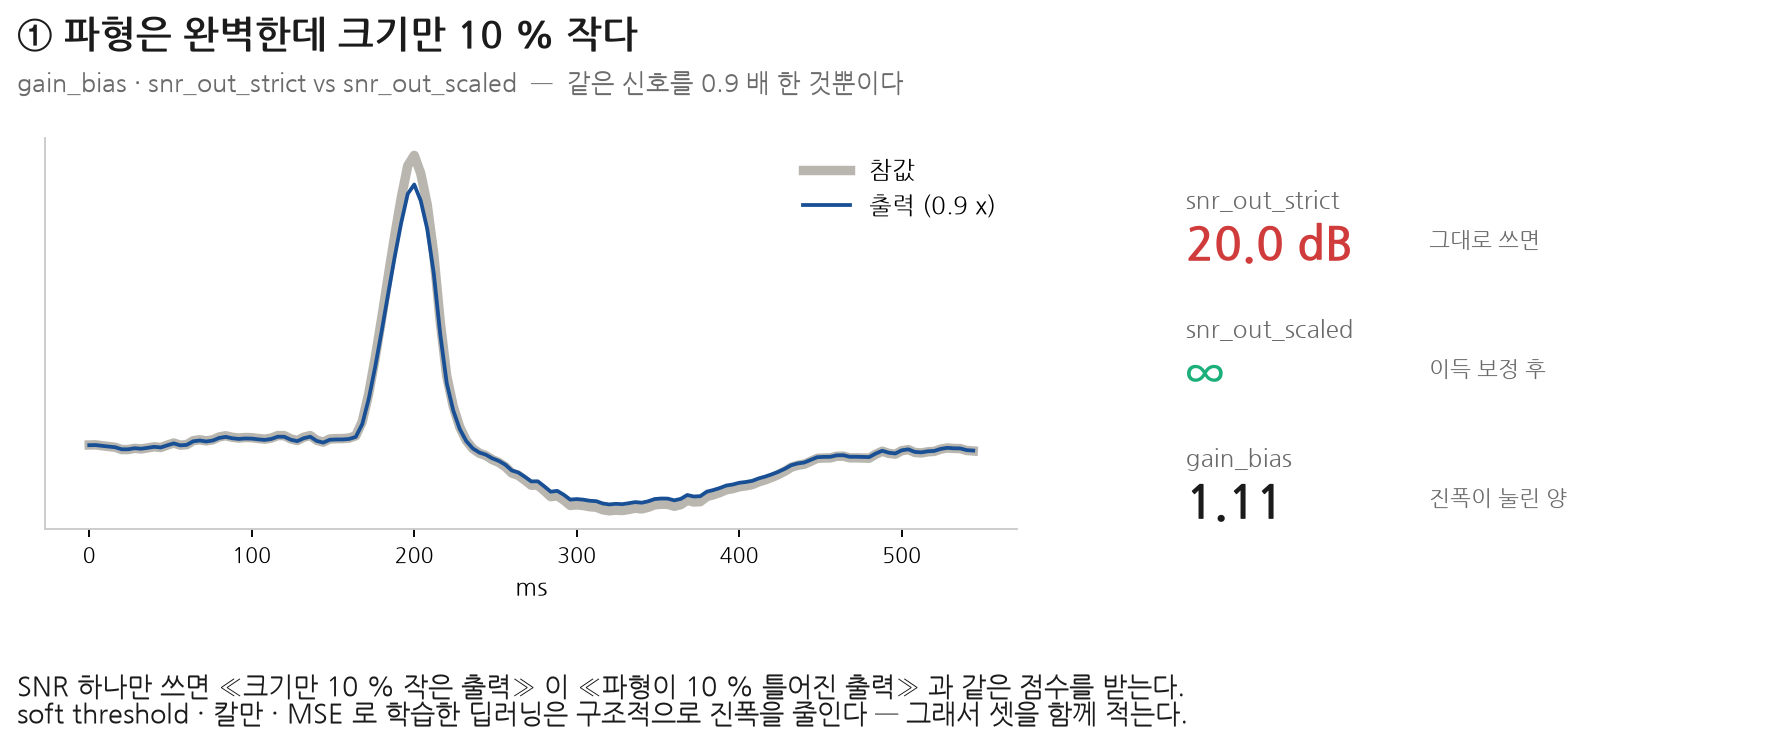
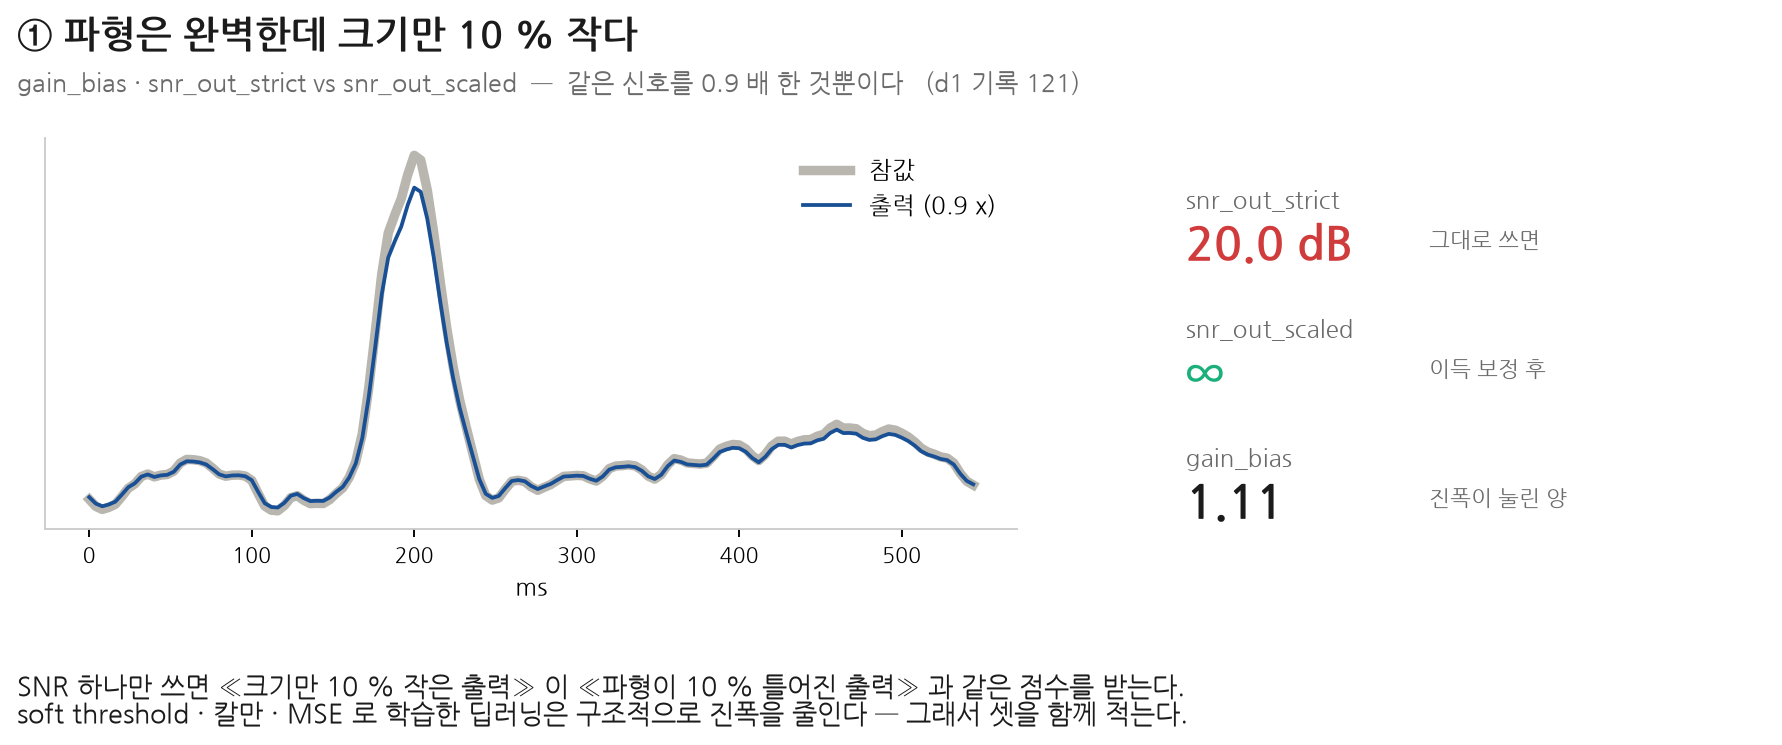
시연 카드 여섯 장을 다섯 장으로 — 미뤄 뒀던 셋을 반영했다
pick_teaching_beat(): 교육용 박동을 점수로 고른다 — P 양수 · T 양수 ·
  R 지배적 · PVC 아님 · 자기 기록 템플릿과의 상관. C1·C2 가 이것을 쓴다.
  전에는 «가운데 박동» 을 그냥 집어 T 파가 뒤집힌 박동에 걸렸다 (합성기의
  jitter_kernel 이 12 % 확률로 T 를 뒤집는 것은 의도된 변이라 버그는 아니지만
  교육용으로는 최악이다). 이제 P·QRS·T 가 전부 양수인 박동이 뽑힌다.

C4 · C6 통합: 「«차이가 없다» 에는 두 종류가 있다」 한 장으로.
  왼쪽 = 분해능 바닥 아래(못 재는 것, 7 개 중 6 개), 오른쪽 = SNR 은
  1.2~13.7 dB 로 갈리는데 심박수 오차는 0.22~0.30 bpm 으로 같음(실제로 없는 것).
  방법 수 15 -> 7.

C5 재설계: P2(3 초 지움) 대신 P3 의 D0<->D1 대조.
  왼쪽 합성에서 M05 가 PVC 를 훼손하고(V-N -0.102), 오른쪽 실데이터에서
  부호가 뒤집힌다(+0.065). F-28 이 잡아낸 사실이 카드의 내용이 된다 -
  「합성에서 보인 것은 실데이터에서 다시 물어야 한다」(F-8)를 한 장으로 말한다.
  기록 하나짜리 숫자 옆에 축 평균을 산출물에서 읽어 함께 적는다 - 카드가
  보고서 5.5/5.8.4 와 어긋나 보이지 않게.

tests/test_figure_text.py: U+2212(-) 가 그림 문자열에 들어가는 것을 막는다.
  나눔 폰트에 그 글자가 없어 두부로 나온다. axes.unicode_minus 는 눈금
  포맷만 고치므로 직접 적은 U+2212 는 그대로 깨진다 - C5 의 «V - N» 이 그랬다.
  본문 마크다운에서는 U+2212 가 옳으므로 그림에 가는 문자열만 본다.

Claude-Session: https://claude.ai/code/session_01WkSoovxUz4RLyNr74Cy6gX

Changed region(s): [[0.1852, 0.2161, 0.5556, 0.7101], [0.0309, 0.5557, 0.216, 0.7101], [0.5247, 0.0926, 0.6173, 0.1235]]

diff --git a/scripts/build_metric_cards.py b/scripts/build_metric_cards.py
@@ -439,7 +439,8 @@ def c5_pvc():
     「합성에서 보인 것은 실데이터에서 다시 물어야 한다」(F-8)를 한 장으로 말한다.
     """
     from ecgdn.data.mixer import mix_at_snr
-    from ecgdn.data.noise import make_banks, mixed_noise
+    from ecgdn.data.noise import mixed_noise
+    from ecgdn.data.nstdb import make_banks
     from ecgdn.data.sources import get_source
     from ecgdn.eval.morphology import beat_matrix
     from ecgdn.methods import build as build_method
@@ -491,10 +492,18 @@ def c5_pvc():
                 cc[want] = float(np.nanmean((aa * bb).sum(1) / den))
         jv = int(rp_s[np.flatnonzero(sym_s == "V")[0]])
         lo, hi = max(0, jv - int(0.35 * FS)), min(x.size, jv + int(0.45 * FS))
-        panes.append(dict(tag=tag, name=name, x=x, out=out, lo=lo, hi=hi, cc=cc))
+        # **축 평균을 산출물에서 읽어 함께 적는다.** 카드가 기록 하나만 보이면
+        # 그 숫자가 보고서(5.5 · 5.8.4)의 축 평균과 달라 보인다 — 축을 안 적은
+        # 인용이 F-28 을 만들었다. 두 숫자를 같이 두면 어긋날 수 없다.
+        pr = pd.read_csv(ROOT / "results" / tag / "exp_e" / "probe.csv")
+        p3 = pr[(pr.probe == "p3") & (pr.method == "M05")]
+        piv = p3.pivot_table(index="method", columns="beat_type", values="beat_cc")
+        axis_vn = float(piv["V"].iloc[0] - piv["N"].iloc[0])
+        panes.append(dict(tag=tag, name=name, x=x, out=out, lo=lo, hi=hi, cc=cc,
+                          axis_vn=axis_vn))
 
     fig = card("⑤ 합성에서만 보이던 위험 — 실데이터에서는 없었다",
-               "beat_cc(V) − beat_cc(N)  ·  EXP-E P3: 부정맥(PVC) 박동의 형태를 "
+               "beat_cc(V) - beat_cc(N)  ·  EXP-E P3: 부정맥(PVC) 박동의 형태를 "
                "정상 박동만큼 지키는가", figsize=(12.5, 5.0))
     for k, pn in enumerate(panes):
         ax = fig.add_axes([0.06 + k * 0.47, 0.30, 0.38, 0.50])
@@ -505,9 +514,11 @@ def c5_pvc():
         d = pn["cc"].get("V", float("nan")) - pn["cc"].get("N", float("nan"))
         ax.set_title(f"{pn['tag']} {'합성' if pn['tag']=='d0' else 'MIT-BIH'} "
                      f"· 기록 {pn['name']}", fontsize=10.5, loc="left", color=INK)
-        ax.text(.98, .93, f"V − N = {d:+.3f}", transform=ax.transAxes, ha="right",
+        ax.text(.98, .93, f"V - N = {d:+.3f}", transform=ax.transAxes, ha="right",
                 fontsize=13, fontweight="bold",
                 color=BAD if d < 0 else INK)
+        ax.text(.98, .855, f"이 기록 · 축 평균 {pn['axis_vn']:+.3f}",
+                transform=ax.transAxes, ha="right", fontsize=9, color=MUTE)
         if k == 0:
             ax.legend(frameon=False, loc="lower right", fontsize=9)
     punch(fig, "왼쪽(합성): M05 의 위상 템플릿이 PVC 를 «정상 쪽으로» 끌어당긴다 — 유일하게 음수다.\n"

diff --git a/tests/test_figure_text.py b/tests/test_figure_text.py
@@ -96,6 +96,22 @@ def test_scripts_that_draw_korean_select_a_korean_font():
     assert not bad, f"그림에 한글을 넣는데 폰트 선택이 없다: {bad}"
 
 
+def test_no_typographic_minus_reaches_a_figure():
+    """U+2212(−)는 **나눔 폰트에 없다** — 그림에서 두부(□)로 나온다.
+
+    `axes.unicode_minus: False` 는 **눈금 포맷**만 고친다. 문자열에 직접 적은
+    U+2212 는 그대로 남아 깨진다. 실제로 C5 카드의 «V − N» 이 그랬다.
+    본문(마크다운)에서는 U+2212 가 옳으므로, **그림에 가는 문자열만** 본다.
+    """
+    bad = []
+    for p, src in _figure_scripts():
+        for ln, v in _figure_strings(src):
+            if "\u2212" in v:
+                bad.append(f"{p.name}:{ln}: {v.strip()[:56]}")
+    assert not bad, ("그림 문자열에 U+2212 가 있다 — 나눔 폰트에 없는 글자다. "
+                     "빼기 기호는 ASCII '-' 로 쓸 것:\n" + "\n".join(bad))
+
+
 def test_scripts_that_draw_korean_disable_unicode_minus():
     """나눔 폰트에 U+2212(−) 가 없다 — 음수 눈금이 깨진다."""
     bad = [p.name for p, src in _korean_figure_scripts()

diff --git a/docs/32_metric_cards.md b/docs/32_metric_cards.md
@@ -19,9 +19,8 @@
 | **C1** | `gain_bias · strict/scaled` | 진폭만 눌린 출력을 SNR 이 과하게 처벌한다 | 합성 예시 (0.9 x). 보고서 3.2.2 의 단위 테스트와 같은 상황 |
 | **C2** | `r_amp_err_pct` | «고주파 = 잡음» 가정이 QRS 부터 깎는다 | EXP-C(d0) — 잡음 0 입력 |
 | **C3** | `psd_logdist` | 무엇을 지웠는지는 스펙트럼에만 보인다 | EXP-C(d0) — 잡음 0 입력 |
-| **C4** | `qrs_dur_err_ms + floor_p95` | 지표 자체의 분해능 아래에는 순위가 없다 | EXP-C(d1) + results/d1/metric_floor |
-| **C5** | `halluc_energy` | 없는 파형을 지어내는가 — 딥러닝이 가장 안전했다 | EXP-E P2(d1) — 3 초를 지운 프로브 |
-| **C6** | `hr_err_bpm` | 층 3 에서는 방법 간 차이가 사라진다 | EXP-B(d1) 잡음 7 종 10 dB |
+| **C4** | `qrs_dur_err_ms + floor_p95 · hr_err_bpm` | «차이가 없다» 의 두 종류 — 지표가 못 재는 것과 실제로 없는 것 | EXP-C(d1) + results/d1/metric_floor + EXP-B(d1) |
+| **C5** | `beat_cc(V) − beat_cc(N)` | 합성에서만 보이던 위험 — 실데이터에서는 재현되지 않았다 (F-8 · F-28) | EXP-E P3(d0 · d1) — PVC 형태 보존 |
 
 ```bash
 python3 scripts/build_metric_cards.py            # 여섯 장
